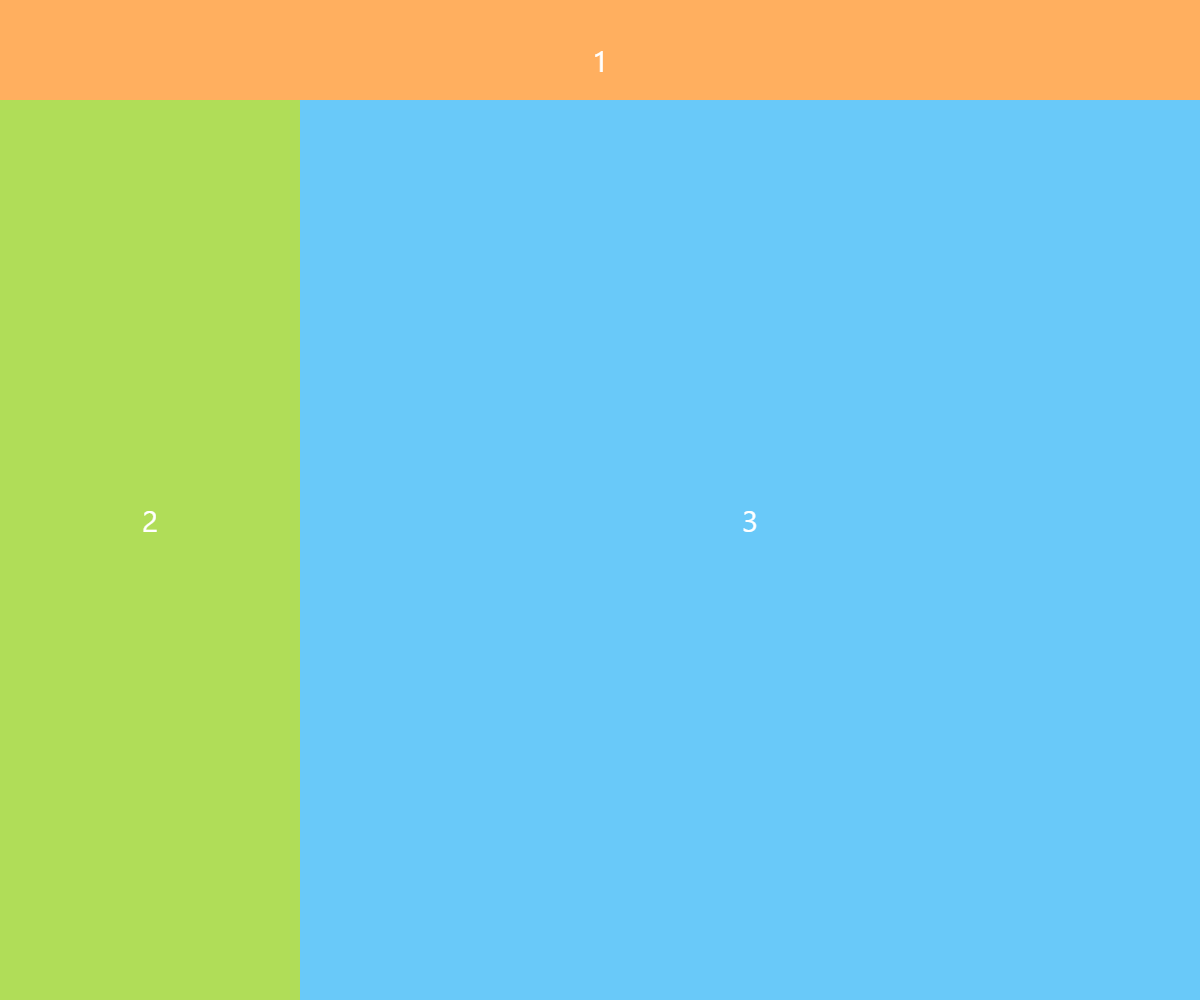
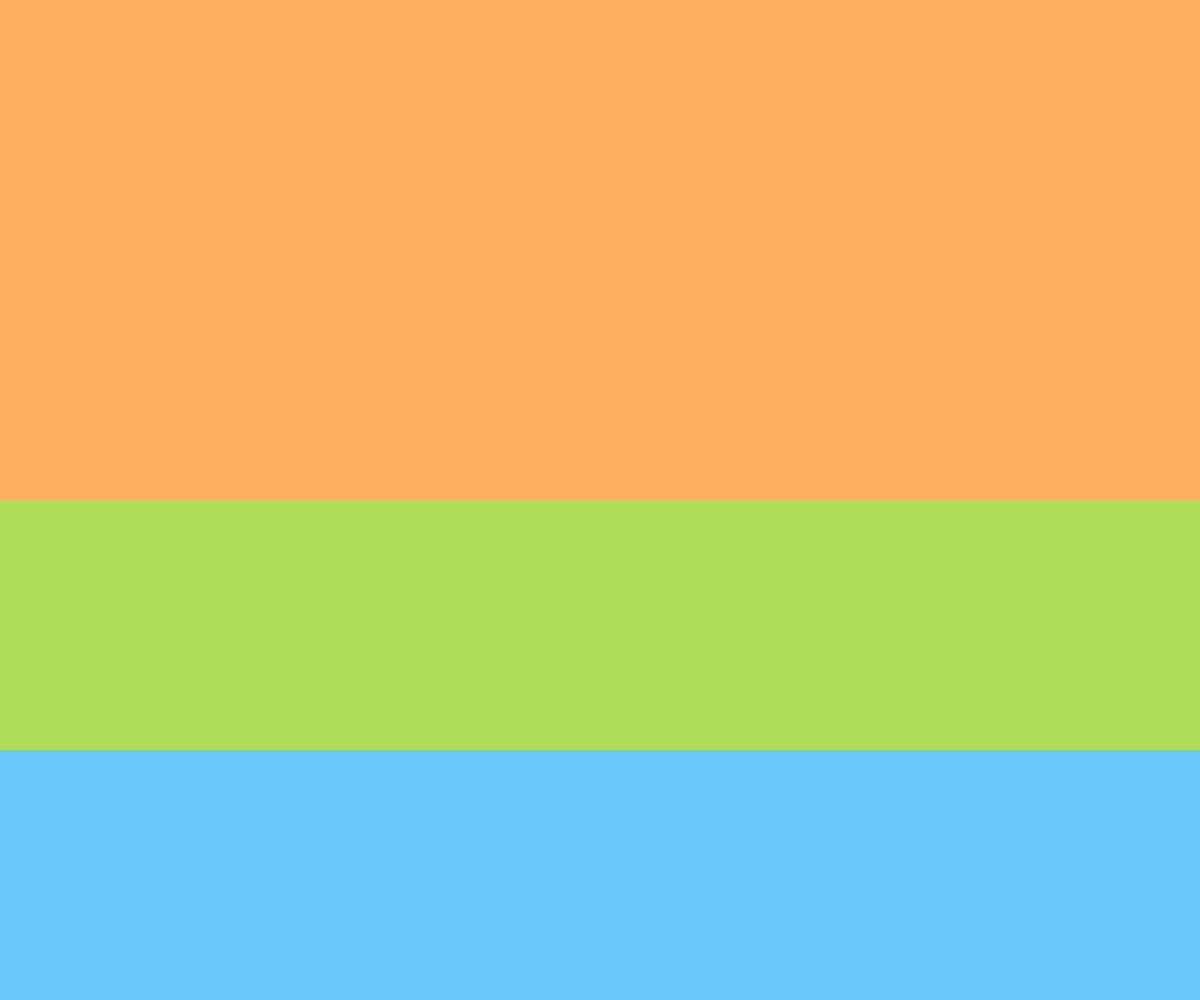
フェーズ1模範解答作成 フェーズ1デザインカンプ作成

diff --git a/トレーニング教材_模範解答/フェーズ1/2.レスポンシブトレーニング/css/index.css b/トレーニング教材_模範解答/フェーズ1/2.レスポンシブトレーニング/css/index.css
@@ -1,0 +1,87 @@
+/*
+ブレイクポイント
+ ～359px：モバイル専用
+ 360px～719px：タブレット
+ 720px～1440px：デスクトップ
+*/
+
+/*全サイズ共通*/
+html,body{
+    height: 100%;
+}
+.main{
+    height: 100%;
+    display: flex;
+    flex-direction: column;
+}
+p {
+    margin: 0px;
+}
+.main--boxA{
+    flex-grow: 0;
+}
+.main--boxB{
+    height: 100%;
+    display: flex;
+    flex-direction:row;
+    flex-grow: 1;
+    justify-content: center;
+}
+.item1,.item2,.item3{
+    color: white;
+    font-size: 30px;
+    font-family: "ＭＳ Ｐゴシック",sans-serif;
+    display: flex;
+    align-items: center;
+    justify-content: center;
+}
+.item1{
+    background-color:#ffaf5f;
+    height: 100px;
+}
+.item2{
+    background-color:#b0dd58;
+    flex-grow: 0;
+    flex-shrink: 0;
+}
+.item3{
+    background-color:#69c9f9;
+}
+
+/*スマートフォンサイズ*/
+@media screen and (max-width:359px) {
+    .main--boxB{
+        flex-direction:column;
+    }
+    .item2{
+        height: 50%;
+    }
+    .item3{
+        min-width: 60px;
+        height: 50%;
+    }
+}
+
+/*タブレットサイズ*/
+@media screen and (min-width:360px) and ( max-width:719px) {
+    .item2{
+        order: 2;
+        flex-basis:300px;
+    }
+    .item3{
+        flex-grow: 1;
+        order: 1;
+    }
+}
+
+/*デスクトップサイズ*/
+@media screen and (min-width:720px) {
+    .item2{
+        order: 1;
+        flex-basis:300px;
+    }
+    .item3{
+        flex-grow: 1;
+        order: 2;
+    }
+}

diff --git a/トレーニング教材_模範解答/フェーズ1/2.レスポンシブトレーニング/index.html b/トレーニング教材_模範解答/フェーズ1/2.レスポンシブトレーニング/index.html
@@ -1,0 +1,29 @@
+<!DOCTYPE html>
+<html>
+    <head>
+        <meta http-equiv="content-language" content="ja">
+        <meta charset="UTF-8">
+        <meta name="keywords" content="文書の内容をキーワードで指定">
+        <meta name="description" content="文書の説明文">
+        <meta name="author" content="弥生株式会社">    
+        <meta name="viewport" content="width=device-width, initial-scale=1">
+        <meta http-equiv="X-UA-Compatible" content="IE=edge" />
+
+        <title>HTML、CSSトレーニング</title>
+        <link rel="shortcut icon" href="../../img/common/favicon.ico">
+
+        <!-- stylesheet -->
+        <link rel="stylesheet" href="css/index.css">
+    </head>
+    <body>
+        <div class="main">
+            <div class="main--boxA">
+                <div class="item1"><p>1</p></div>
+            </div>
+            <div class="main--boxB">
+                <div class="item2"><p>2</p></div>
+                <div class="item3"><p>3</p></div>
+            </div>
+        </div>
+    </body>
+</html>

diff --git a/トレーニング教材_模範解答/フェーズ1/1.HTML、CSSトレーニング/index.html b/トレーニング教材_模範解答/フェーズ1/1.HTML、CSSトレーニング/index.html
@@ -1,0 +1,25 @@
+<!DOCTYPE html>
+<html>
+    <head>
+        <meta http-equiv="content-language" content="ja">
+        <meta charset="UTF-8">
+        <meta name="keywords" content="文書の内容をキーワードで指定">
+        <meta name="description" content="文書の説明文">
+        <meta name="author" content="弥生株式会社">    
+        <meta name="viewport" content="width=device-width, initial-scale=1">
+        <meta http-equiv="X-UA-Compatible" content="IE=edge" />
+
+        <title>HTML、CSSトレーニング</title>
+        <link rel="shortcut icon" href="../../img/common/favicon.ico">
+
+        <!-- stylesheet -->
+        <link rel="stylesheet" href="css/index.css">
+    </head>
+    <body>
+        <div class="main">
+            <div class="item1"></div>
+            <div class="item2"></div>
+            <div class="item3"></div>
+        </div>
+    </body>
+</html>

diff --git a/トレーニング教材_模範解答/フェーズ1/1.HTML、CSSトレーニング/css/index.css b/トレーニング教材_模範解答/フェーズ1/1.HTML、CSSトレーニング/css/index.css
@@ -1,0 +1,23 @@
+html,body,.main{
+    height: 100%;
+}
+p {
+    margin: 0px;
+}
+.item1,.item2,.item3{
+    color: white;
+    font-size: 30px;
+    font-family: "ＭＳ Ｐゴシック",sans-serif;
+}
+.item1{
+    background-color:#ffaf5f;
+    height: 50%;
+}
+.item2{
+    background-color:#b0dd58;
+    height: 25%;
+}
+.item3{
+    background-color:#69c9f9;
+    height: 25%;
+}
